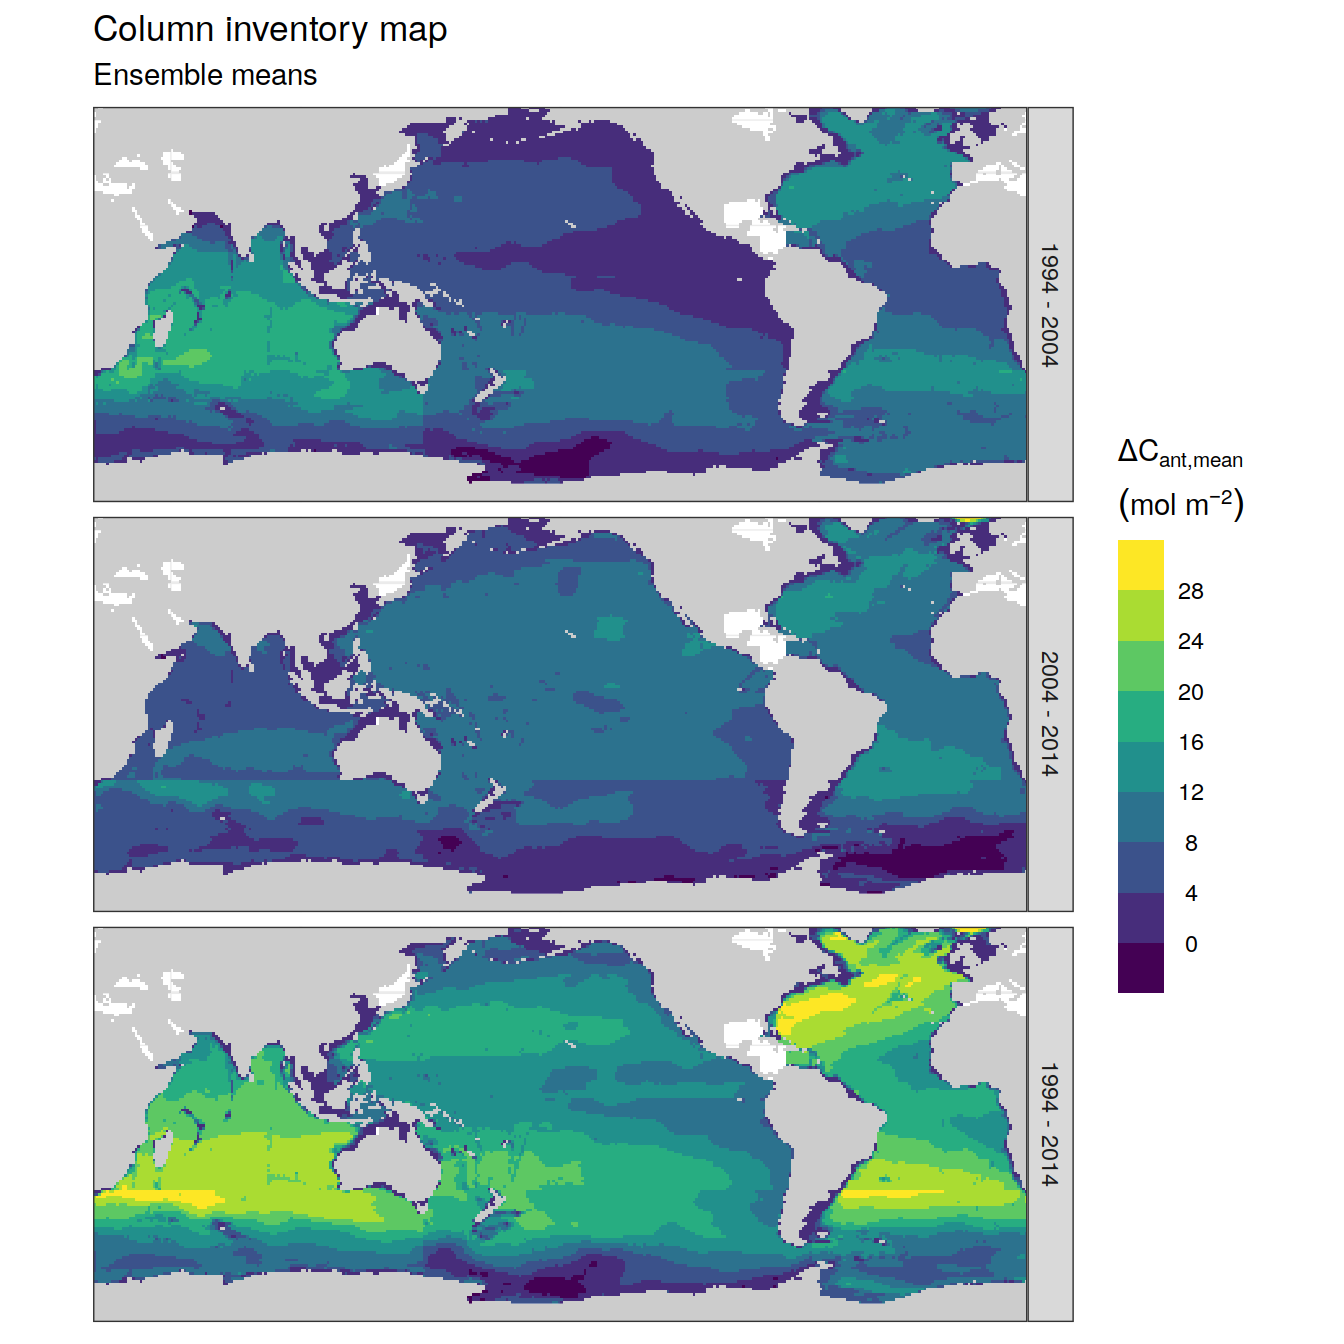
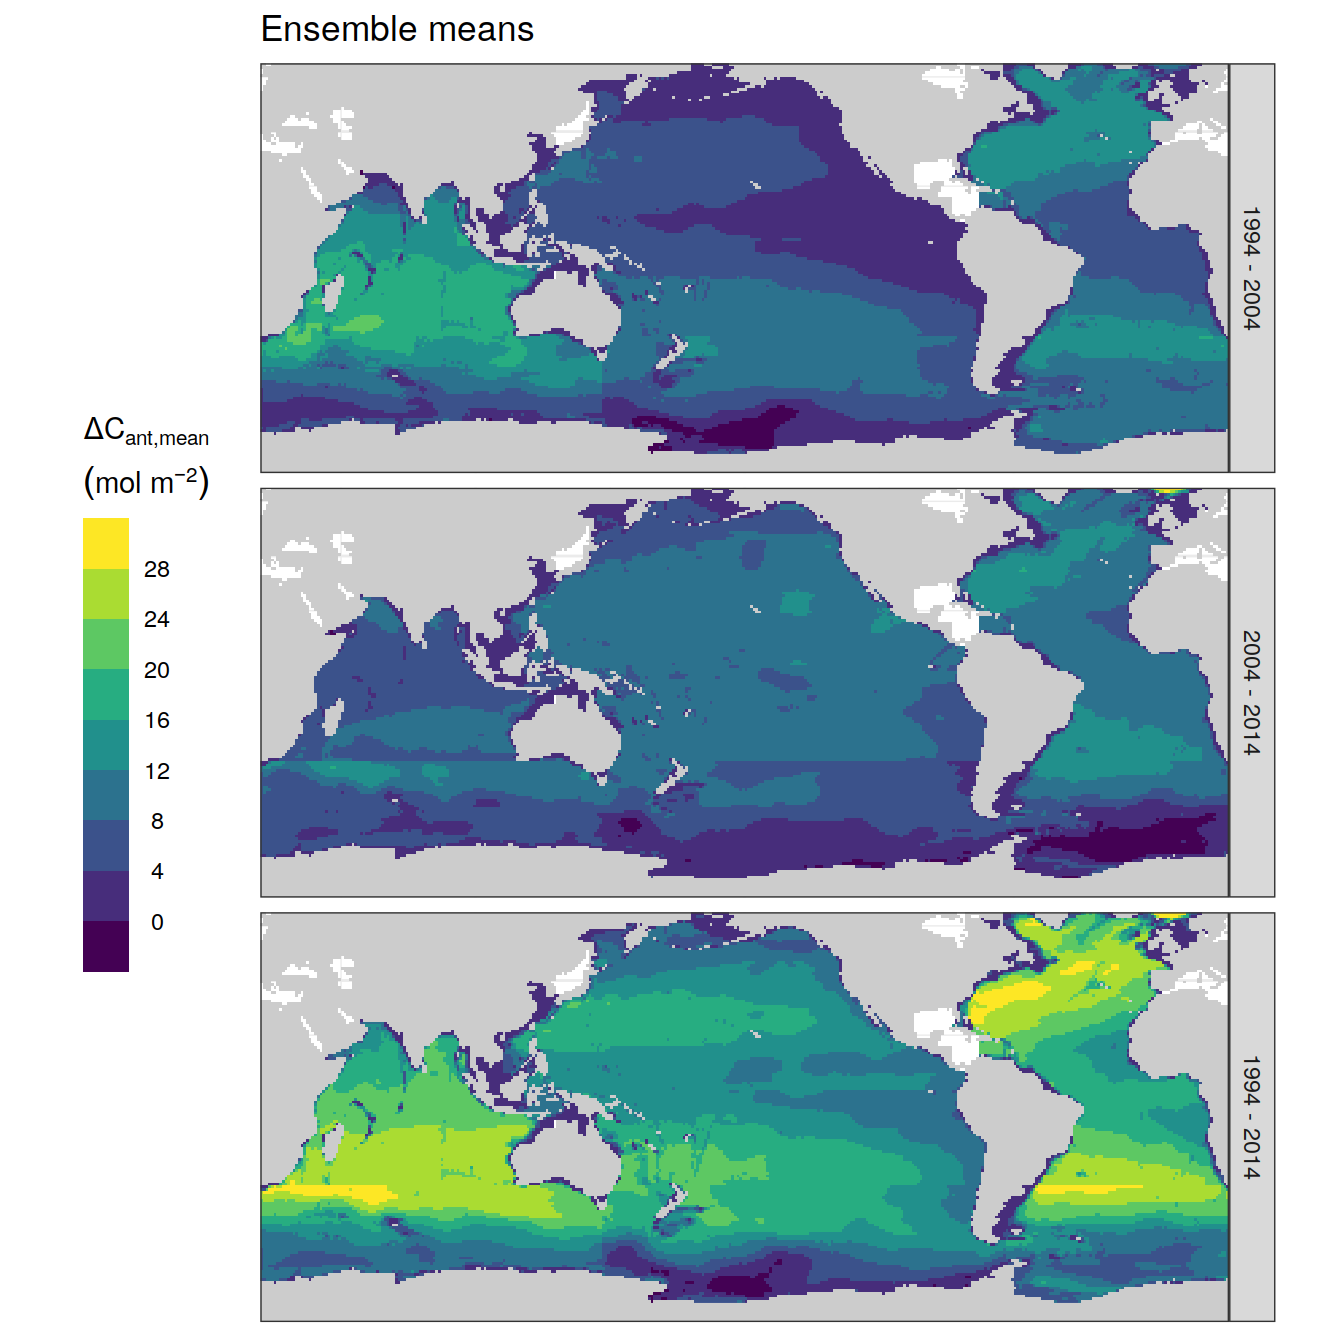
Build site.

diff --git a/docs/classic_column_inventories.html b/docs/classic_column_inventories.html
@@ -610,16 +610,16 @@ This reproducible <a href="http://rmarkdown.rstudio.com">R Markdown</a> analysis
 <div class="panel panel-default">
 <div class="panel-heading">
 <p class="panel-title">
-<a data-toggle="collapse" data-parent="#workflowr-checks" href="#strongRepositoryversionstrongahrefhttpsgithubcomjensdanielmuelleremlrobsanalysistree67edc719f095a2900dc24ae8ed94b359f24e15d9targetblank67edc71a"> <span class="glyphicon glyphicon-ok text-success" aria-hidden="true"></span> <strong>Repository version:</strong> <a href="https://github.com/jens-daniel-mueller/emlr_obs_analysis/tree/67edc719f095a2900dc24ae8ed94b359f24e15d9" target="_blank">67edc71</a> </a>
+<a data-toggle="collapse" data-parent="#workflowr-checks" href="#strongRepositoryversionstrongahrefhttpsgithubcomjensdanielmuelleremlrobsanalysistree9a115bf50f432942ce27400f47e8bf6c7e0b36b6targetblank9a115bfa"> <span class="glyphicon glyphicon-ok text-success" aria-hidden="true"></span> <strong>Repository version:</strong> <a href="https://github.com/jens-daniel-mueller/emlr_obs_analysis/tree/9a115bf50f432942ce27400f47e8bf6c7e0b36b6" target="_blank">9a115bf</a> </a>
 </p>
 </div>
[2 lines of base64/hex data omitted]
 <div class="panel-body">
 <p>
 Great! You are using Git for version control. Tracking code development and connecting the code version to the results is critical for reproducibility.
 </p>
 <p>
-The results in this page were generated with repository version <a href="https://github.com/jens-daniel-mueller/emlr_obs_analysis/tree/67edc719f095a2900dc24ae8ed94b359f24e15d9" target="_blank">67edc71</a>. See the <em>Past versions</em> tab to see a history of the changes made to the R Markdown and HTML files.
+The results in this page were generated with repository version <a href="https://github.com/jens-daniel-mueller/emlr_obs_analysis/tree/9a115bf50f432942ce27400f47e8bf6c7e0b36b6" target="_blank">9a115bf</a>. See the <em>Past versions</em> tab to see a history of the changes made to the R Markdown and HTML files.
 </p>
 <p>
 Note that you need to be careful to ensure that all relevant files for the analysis have been committed to Git prior to generating the results (you can use <code>wflow_publish</code> or <code>wflow_git_commit</code>). workflowr only checks the R Markdown file, but you know if there are other scripts or data files that it depends on. Below is the status of the Git repository when the results were generated:
@@ -672,6 +672,40 @@ Message
 </tr>
 </thead>
 <tbody>
+<tr>
+<td>
+Rmd
+</td>
+<td>
+<a href="https://github.com/jens-daniel-mueller/emlr_obs_analysis/blob/9a115bf50f432942ce27400f47e8bf6c7e0b36b6/analysis/classic_column_inventories.Rmd" target="_blank">9a115bf</a>
+</td>
+<td>
+jens-daniel-mueller
+</td>
+<td>
+2021-09-30
+</td>
+<td>
+maps added
+</td>
+</tr>
+<tr>
+<td>
+html
+</td>
+<td>
+<a href="https://rawcdn.githack.com/jens-daniel-mueller/emlr_obs_analysis/c225f90fa6335b4fcca2f49d76b2e0ab4eda6cbb/docs/classic_column_inventories.html" target="_blank">c225f90</a>
+</td>
+<td>
+jens-daniel-mueller
+</td>
+<td>
+2021-09-30
+</td>
+<td>
+Build site.
+</td>
+</tr>
 <tr>
 <td>
 Rmd
@@ -2055,6 +2089,17 @@ Date
 <tbody>
 <tr>
 <td>
+<a href="https://github.com/jens-daniel-mueller/emlr_obs_analysis/blob/c225f90fa6335b4fcca2f49d76b2e0ab4eda6cbb/docs/figure/classic_column_inventories.Rmd/filter_ensemble_member-1.png" target="_blank">c225f90</a>
+</td>
+<td>
+jens-daniel-mueller
+</td>
+<td>
+2021-09-30
+</td>
+</tr>
+<tr>
+<td>
 <a href="https://github.com/jens-daniel-mueller/emlr_obs_analysis/blob/f51dcb905c1ae1d9bb76aa3f87abed1b938e14f2/docs/figure/classic_column_inventories.Rmd/filter_ensemble_member-1.png" target="_blank">f51dcb9</a>
 </td>
 <td>
@@ -2170,6 +2215,17 @@ Date
 </tr>
 </thead>
 <tbody>
+<tr>
+<td>
+<a href="https://github.com/jens-daniel-mueller/emlr_obs_analysis/blob/c225f90fa6335b4fcca2f49d76b2e0ab4eda6cbb/docs/figure/classic_column_inventories.Rmd/filter_ensemble_member-2.png" target="_blank">c225f90</a>
+</td>
+<td>
+jens-daniel-mueller
+</td>
+<td>
+2021-09-30
+</td>
+</tr>
 <tr>
 <td>
 <a href="https://github.com/jens-daniel-mueller/emlr_obs_analysis/blob/f51dcb905c1ae1d9bb76aa3f87abed1b938e14f2/docs/figure/classic_column_inventories.Rmd/filter_ensemble_member-2.png" target="_blank">f51dcb9</a>
@@ -2424,11 +2480,12 @@ jens-daniel-mueller
 <pre class="r"><code>p_map_cant_inv(df = dcant_inv_ensemble %&gt;% 
                  filter(data_source == &quot;obs&quot;),
                      var = &quot;dcant_mean&quot;,
-                     subtitle_text = paste(&quot;Ensemble means&quot;),
+                     title_text = paste(&quot;Ensemble means&quot;),
                breaks = c(-Inf, seq(0,28,4), Inf)) +
       facet_grid(period ~ .) +
   theme(axis.text = element_blank(),
-        axis.ticks = element_blank())</code></pre>
+        axis.ticks = element_blank(),
+        legend.position = &quot;left&quot;)</code></pre>
 <p><img src="figure/classic_column_inventories.Rmd/ensemble_mean_all-1.png" width="672" style="display: block; margin: auto;" /></p>
 <p>
 <button type="button" class="btn btn-default btn-xs btn-workflowr btn-workflowr-fig" data-toggle="collapse" data-target="#fig-ensemble_mean_all-1">
@@ -2452,6 +2509,17 @@ Date
 </tr>
 </thead>
 <tbody>
+<tr>
+<td>
+<a href="https://github.com/jens-daniel-mueller/emlr_obs_analysis/blob/c225f90fa6335b4fcca2f49d76b2e0ab4eda6cbb/docs/figure/classic_column_inventories.Rmd/ensemble_mean_all-1.png" target="_blank">c225f90</a>
+</td>
+<td>
+jens-daniel-mueller
+</td>
+<td>
+2021-09-30
+</td>
+</tr>
 <tr>
 <td>
 <a href="https://github.com/jens-daniel-mueller/emlr_obs_analysis/blob/318dbe4d0665b6f3f3848c92201a1feb02f7d7e8/docs/figure/classic_column_inventories.Rmd/ensemble_mean_all-1.png" target="_blank">318dbe4</a>
@@ -2672,6 +2740,17 @@ Date
 <tbody>
 <tr>
 <td>
+<a href="https://github.com/jens-daniel-mueller/emlr_obs_analysis/blob/c225f90fa6335b4fcca2f49d76b2e0ab4eda6cbb/docs/figure/classic_column_inventories.Rmd/ensemble_sd-1.png" target="_blank">c225f90</a>
+</td>
+<td>
+jens-daniel-mueller
+</td>
+<td>
+2021-09-30
+</td>
+</tr>
+<tr>
+<td>
 <a href="https://github.com/jens-daniel-mueller/emlr_obs_analysis/blob/f51dcb905c1ae1d9bb76aa3f87abed1b938e14f2/docs/figure/classic_column_inventories.Rmd/ensemble_sd-1.png" target="_blank">f51dcb9</a>
 </td>
 <td>
@@ -2804,6 +2883,17 @@ Date
 </tr>
 </thead>
 <tbody>
+<tr>
+<td>
+<a href="https://github.com/jens-daniel-mueller/emlr_obs_analysis/blob/c225f90fa6335b4fcca2f49d76b2e0ab4eda6cbb/docs/figure/classic_column_inventories.Rmd/ensemble_sd_vs_bias-1.png" target="_blank">c225f90</a>
+</td>
+<td>
+jens-daniel-mueller
+</td>
+<td>
+2021-09-30
+</td>
+</tr>
 <tr>
 <td>
 <a href="https://github.com/jens-daniel-mueller/emlr_obs_analysis/blob/f51dcb905c1ae1d9bb76aa3f87abed1b938e14f2/docs/figure/classic_column_inventories.Rmd/ensemble_sd_vs_bias-1.png" target="_blank">f51dcb9</a>
@@ -2960,6 +3050,7 @@ ggsave(plot = p_ensemble_distribution,
 
 p_ensemble_distribution &lt;-
   dcant_density_distribution %&gt;%
+  filter(data_source == &quot;obs&quot;) %&gt;%
   mutate(
     data_source = recode(data_source,
                          mod = &quot;Model&quot;,
@@ -3180,6 +3271,17 @@ Date
 </tr>
 </thead>
 <tbody>
+<tr>
+<td>
+<a href="https://github.com/jens-daniel-mueller/emlr_obs_analysis/blob/c225f90fa6335b4fcca2f49d76b2e0ab4eda6cbb/docs/figure/classic_column_inventories.Rmd/ensemble_range-1.png" target="_blank">c225f90</a>
+</td>
+<td>
+jens-daniel-mueller
+</td>
+<td>
+2021-09-30
+</td>
+</tr>
 <tr>
 <td>
 <a href="https://github.com/jens-daniel-mueller/emlr_obs_analysis/blob/f51dcb905c1ae1d9bb76aa3f87abed1b938e14f2/docs/figure/classic_column_inventories.Rmd/ensemble_range-1.png" target="_blank">f51dcb9</a>
@@ -3451,6 +3553,17 @@ Date
 <tbody>
 <tr>
 <td>
+<a href="https://github.com/jens-daniel-mueller/emlr_obs_analysis/blob/c225f90fa6335b4fcca2f49d76b2e0ab4eda6cbb/docs/figure/classic_column_inventories.Rmd/ensemble_deviation_from_mean-2.png" target="_blank">c225f90</a>
+</td>
+<td>
+jens-daniel-mueller
+</td>
+<td>
+2021-09-30
+</td>
+</tr>
+<tr>
+<td>
 <a href="https://github.com/jens-daniel-mueller/emlr_obs_analysis/blob/f51dcb905c1ae1d9bb76aa3f87abed1b938e14f2/docs/figure/classic_column_inventories.Rmd/ensemble_deviation_from_mean-2.png" target="_blank">f51dcb9</a>
 </td>
 <td>
@@ -3566,6 +3679,17 @@ Date
 </tr>
 </thead>
 <tbody>
+<tr>
+<td>
+<a href="https://github.com/jens-daniel-mueller/emlr_obs_analysis/blob/c225f90fa6335b4fcca2f49d76b2e0ab4eda6cbb/docs/figure/classic_column_inventories.Rmd/ensemble_deviation_from_mean-3.png" target="_blank">c225f90</a>
+</td>
+<td>
+jens-daniel-mueller
+</td>
+<td>
+2021-09-30
+</td>
+</tr>
 <tr>
 <td>
 <a href="https://github.com/jens-daniel-mueller/emlr_obs_analysis/blob/f51dcb905c1ae1d9bb76aa3f87abed1b938e14f2/docs/figure/classic_column_inventories.Rmd/ensemble_deviation_from_mean-3.png" target="_blank">f51dcb9</a>
